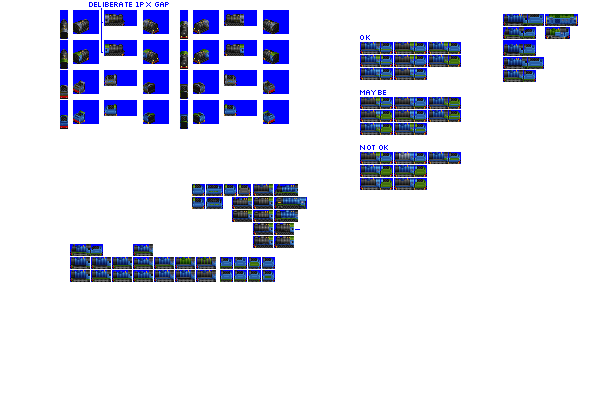
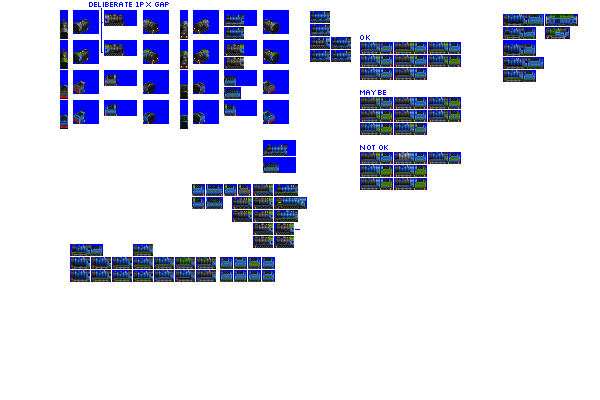
Change: more WIP on Ox, Shearwater, Smirr, Smizzle

Changed region(s): [[0.36, 0.03, 0.42, 0.27], [0.51, 0.03, 0.6, 0.18], [0.42, 0.33, 0.51, 0.45]]

diff --git a/src/vehicles/pony/smizzle.py b/src/vehicles/pony/smizzle.py
@@ -28,7 +28,7 @@ def main(**kwargs):
 
     model_def.define_description("""""")
     model_def.define_foamer_facts(
-        """English Electric Australian exports""" #https://en.wikipedia.org/wiki/WAGR_R_class_(diesel)
+        """English Electric locomotives for Queensland and Western Australia, Baldwin DRS-6-4-660NA"""
     )
 
     result.append(model_def)

diff --git a/src/vehicles/pony/shearwater.py b/src/vehicles/pony/shearwater.py
@@ -38,7 +38,7 @@ def main(**kwargs):
     model_def.define_description(
         """"""
     )
-    model_def.define_foamer_facts("""NER Class C 0-6-0 (LNER J21)""")
+    model_def.define_foamer_facts("""NER Class C 0-6-0 (LNER J21)""") # ACTUALLY GWR 2251 CABBAGE, LNER J36 (NBR Class C)
 
     result.append(model_def)
 
